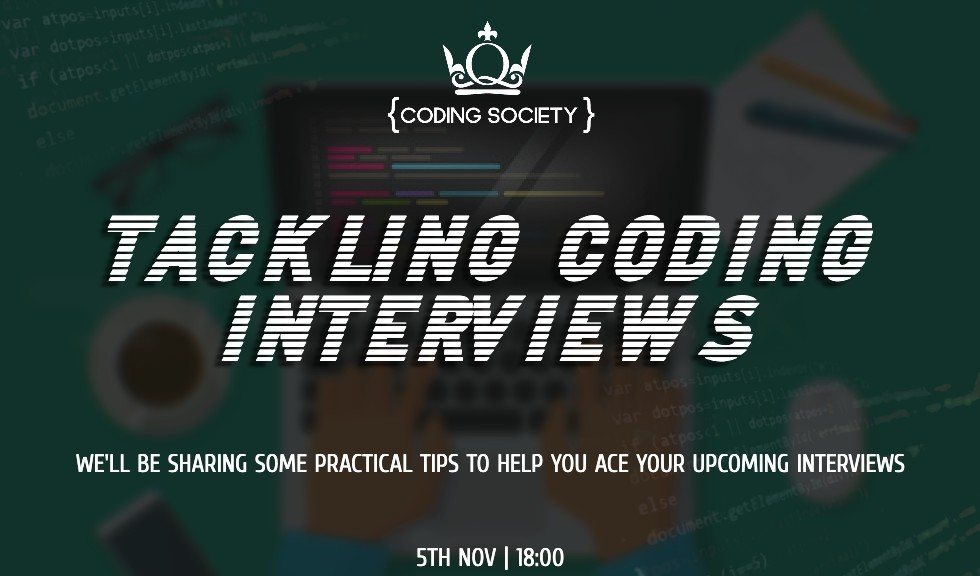
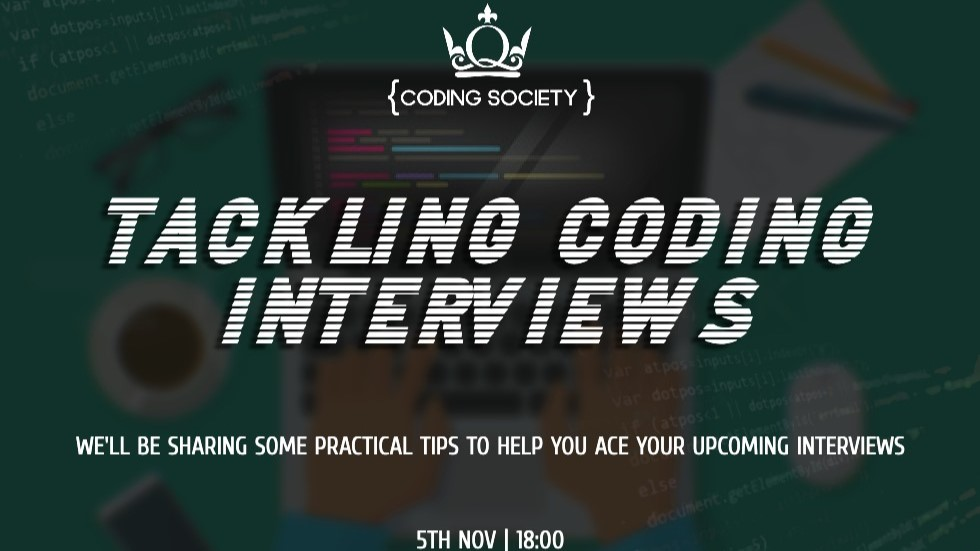
cropped images, removed old image carousel

diff --git a/blog.html b/blog.html
@@ -104,52 +104,52 @@
 
                 <!-- Full-width images with number and caption text -->
                 <div class="mySlides fade">
-                  <div class="numbertext">1 / 11</div>
+                  <div class="numbertext">1 / 10</div>
                   <img src="static/images/2-Oct8-BlackInTech.jpg" style="width:100%">
                 </div>
               
                 <div class="mySlides fade">
-                  <div class="numbertext">2 / 11</div>
+                  <div class="numbertext">2 / 10</div>
                   <img src="static/images/3-Oct15-Movie.jpg" style="width:100%">
                 </div>
 
                 <div class="mySlides fade">
-                  <div class="numbertext">3 / 11</div>
+                  <div class="numbertext">3 / 10</div>
                   <img src="static/images/4-Oct22-CodeWebsite.jpg" style="width:100%">
                 </div>
 
                 <div class="mySlides fade">
-                  <div class="numbertext">4 / 11</div>
+                  <div class="numbertext">4 / 10</div>
                   <img src="static/images/5-Oct29-EscapeRoom.jpg" style="width:100%">
                 </div>
 
                 <div class="mySlides fade">
-                  <div class="numbertext">5 / 11</div>
+                  <div class="numbertext">5 / 10</div>
                   <img src="static/images/6-Nov5-CodingInterviews.jpg" style="width:100%">
                 </div>
 
                 <div class="mySlides fade">
-                  <div class="numbertext">6 / 11</div>
+                  <div class="numbertext">6 / 10</div>
                   <img src="static/images/7-Nov12-KahootSocial.jpg" style="width:100%">
                 </div>
 
                 <div class="mySlides fade">
-                  <div class="numbertext">7 / 11</div>
+                  <div class="numbertext">7 / 10</div>
                   <img src="static/images/8-Nov19-Python101.jpg" style="width:100%">
                 </div>
 
                 <div class="mySlides fade">
-                  <div class="numbertext">8 / 11</div>
+                  <div class="numbertext">8 / 10</div>
                   <img src="static/images/9-Nov26-GameNight.jpg" style="width:100%">
                 </div>
 
                 <div class="mySlides fade">
-                  <div class="numbertext">9 / 11</div>
+                  <div class="numbertext">9 / 10</div>
                   <img src="static/images/10-Dec3-MovieNight.jpg" style="width:100%">
                 </div>
 
                 <div class="mySlides fade">
-                  <div class="numbertext">10 / 11</div>
+                  <div class="numbertext">10 / 10</div>
                   <img src="static/images/11-Mar11-MicrosoftEmployee.jpeg" style="width:100%">
                 </div>
               
@@ -187,108 +187,8 @@
                 In setting 3 tangible, clear aims when the society was founded, it helped to set the direction and  plan events to work towards achieving the aims. In the 21/22 academic year, I decided to continue the same goals which we had in the previous academic year, but to pass it on to the new committee. As a result of it, we’ve had many success stories including a member completing a summer internship and obtaining a technology grad job at LSEG, and people developing a new-found interest in coding. Today, there are 60 paid members in this academic year, and 221 members in the WhatsApp group chat where students use it as a “student stackoverflow”, a place where everyone can find the answers to their coding peoplems, where they can’t find it on Google.
             </p><br/>
 
-            <!--image carousel-->
-            <div class="wiper">
-                <button class="wiper-button wiper-button__right">
-                  <img src="https://www.iconpacks.net/icons/2/free-arrow-left-icon-3099-thumb.png" alt="left" />
-                </button>
-                <div class="wiper-wrapper">
-                  <ul class="wiper-track">
-                    <li class="wiper-item active-swipe">
-                        <img
-                          class="wiper__image"
-                          src="static/images/1-Sept23.jpg"
-                          alt="background-image"
-                        />
-                        <button class="swiper__image-button">More details</button>
-                      </li>
-                    <li class="wiper-item">
-                      <img
-                        class="wiper__image"
-                        src="static/images/2-Oct8-BlackInTech.jpg"
-                        alt="background-image"
-                      />
-                      <button class="swiper__image-button">More details</button>
-                    </li>
-                    <li class="wiper-item">
-                      <img
-                        class="wiper__image"
-                        src="static/images/3-Oct15-Movie.jpg"
-                        alt="background-image"
-                      />
-                      <button class="swiper__image-button">More details</button>
-                    </li>
-                    <li class="wiper-item">
-                      <img
-                        class="wiper__image"
-                        src="static/images/4-Oct22-CodeWebsite.jpg"
-                        alt="background-image"
-                      />
-                      <button class="swiper__image-button">More details</button>
-                    </li>
-                    <li class="wiper-item">
-                      <img
-                        class="wiper__image"
-                        src="static/images/5-Oct29-EscapeRoom.jpg"
-                        alt="background-image"
-                      />
-                      <button class="swiper__image-button">More details</button>
-                    </li>
-                    <li class="wiper-item">
-                      <img
-                        class="wiper__image"
-                        src="static/images/6-Nov5-CodingInterviews.jpg"
-                        alt="background-image"
-                      />
-                      <button class="swiper__image-button">More details</button>
-                    </li>
-                    <li class="wiper-item">
-                      <img
-                        class="wiper__image"
-                        src="static/images/7-Nov12-KahootSocial.jpg"
-                        alt="background-image"
-                      />
-                      <button class="swiper__image-button">More details</button>
-                    </li>
-                    <li class="wiper-item">
-                        <img
-                          class="wiper__image"
-                          src="static/images/8-Nov19-Python101.jpg"
-                          alt="background-image"
-                        />
-                        <button class="swiper__image-button">More details</button>
-                      </li>
-                      <li class="wiper-item">
-                        <img
-                          class="wiper__image"
-                          src="static/images/9-Nov26-GameNight.jpg"
-                          alt="background-image"
-                        />
-                        <button class="swiper__image-button">More details</button>
-                      </li>
-                      <li class="wiper-item">
-                        <img
-                          class="wiper__image"
-                          src="static/images/10-Dec3-MovieNight.jpg"
-                          alt="background-image"
-                        />
-                        <button class="swiper__image-button">More details</button>
-                      </li>
-                      <li class="wiper-item">
-                        <img
-                          class="wiper__image"
-                          src="static/images/12-Mar11-MicrosoftEmployee.jpeg"
-                          alt="background-image"
-                        />
-                        <button class="swiper__image-button">More details</button>
-                      </li>
-                  </ul>
-                </div>
-                <button class="wiper-button wiper-button__left">
-                  <img src="https://www.iconpacks.net/icons/2/free-arrow-left-icon-3099-thumb.png" alt="right" />
-                </button>
-            </div>
-            <!--https://codepen.io/Yulia-Verbylo/pen/NWmKPaX-->   
+            <!--image carousel 
+            https://codepen.io/Yulia-Verbylo/pen/NWmKPaX -->   
             <div class="blog-backbutton">
               <button class="read-button blogpost-back">Back</button>
             </div>       
@@ -376,50 +276,6 @@
             $('.blogpost-grid').fadeIn("slow");
         });
     });
-
-    const wiperTrack = document.querySelector(".wiper-track");
-    const wipes = Array.from(wiperTrack.children);
-    const wipePrevBtn = document.querySelector(".wiper-button__right");
-    const wipeNextBtn = document.querySelector(".wiper-button__left");
-    const wipeWidth = wipes[0].getBoundingClientRect().width;
-
-    const arrowsBehaviour = (wipePrevBtn, wipeNextBtn, index) => {
-        if (index === 0) {
-            wipePrevBtn.classList.add("is-hidden");
-            wipeNextBtn.classList.remove("is-hidden");
-        } else if (index === wipes.length-1) {
-            wipePrevBtn.classList.remove("is-hidden");
-            wipeNextBtn.classList.add("is-hidden");
-        } else {
-            wipePrevBtn.classList.remove("is-hidden");
-            wipeNextBtn.classList.remove("is-hidden");
-        }
-    };
-
-    const wipeSlide = (wiperTrack, activeSlide, nextSlide, targetIndex) => {
-        wiperTrack.style.transform =
-        "translateX(-" + (wipeWidth + 40) * (targetIndex - 1) + "vw)";
-        activeSlide.classList.remove("active-swipe");
-        activeSlide.style.transform = "scale(1)";
-        nextSlide.classList.add("active-swipe");
-        nextSlide.style.transform = "scale(1.1)";
-    };
-
-    wipeNextBtn.addEventListener("click", (e) => {
-        const activeSlide = wiperTrack.querySelector(".active-swipe");
-        const nextSlide = activeSlide.nextElementSibling;
-        const targetIndex = wipes.findIndex((slide) => slide === nextSlide);
-        wipeSlide(wiperTrack, activeSlide, nextSlide, targetIndex);
-        arrowsBehaviour(wipePrevBtn, wipeNextBtn, targetIndex);
-    });
-    wipePrevBtn.addEventListener("click", (e) => {
-        const activeSlide = wiperTrack.querySelector(".active-swipe");
-        const nextSlide = activeSlide.previousElementSibling;
-        const targetIndex = wipes.findIndex((slide) => slide === nextSlide);
-        wipeSlide(wiperTrack, activeSlide, nextSlide, targetIndex);
-        arrowsBehaviour(wipePrevBtn, wipeNextBtn, targetIndex);
-    });
-
 
     let slideIndex = 1;
 showSlides(slideIndex);
